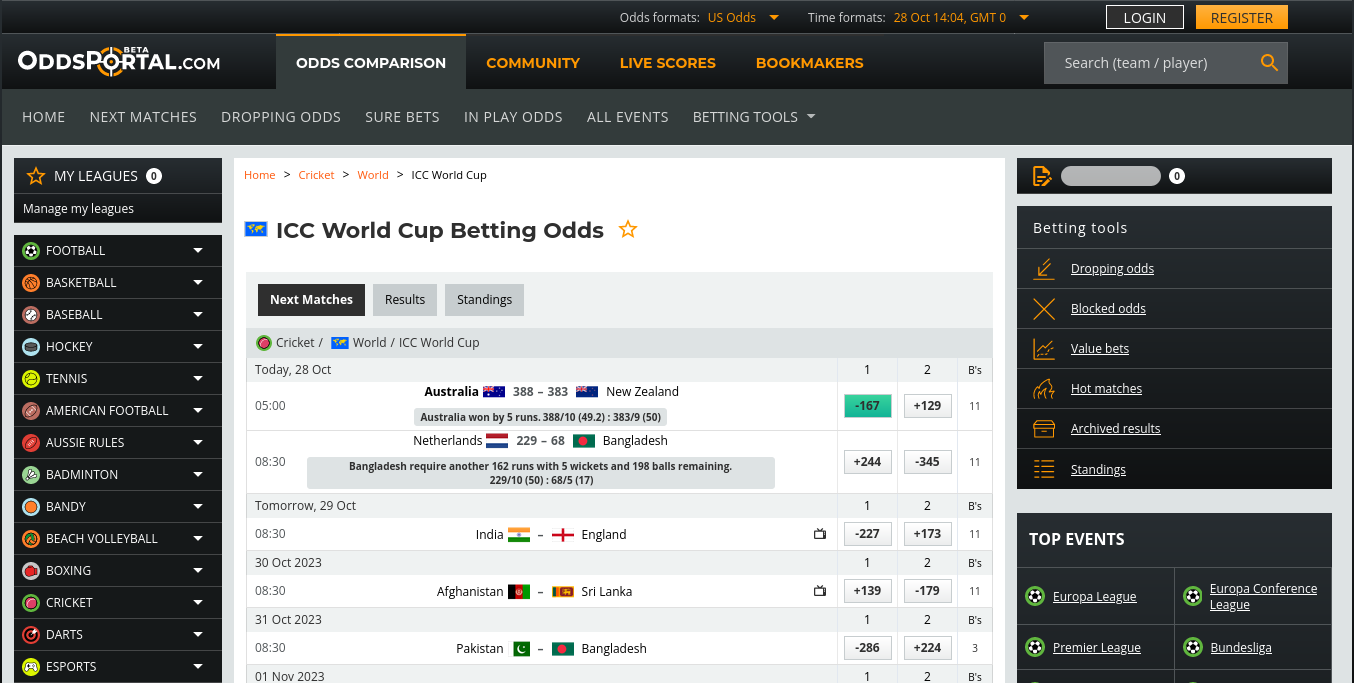
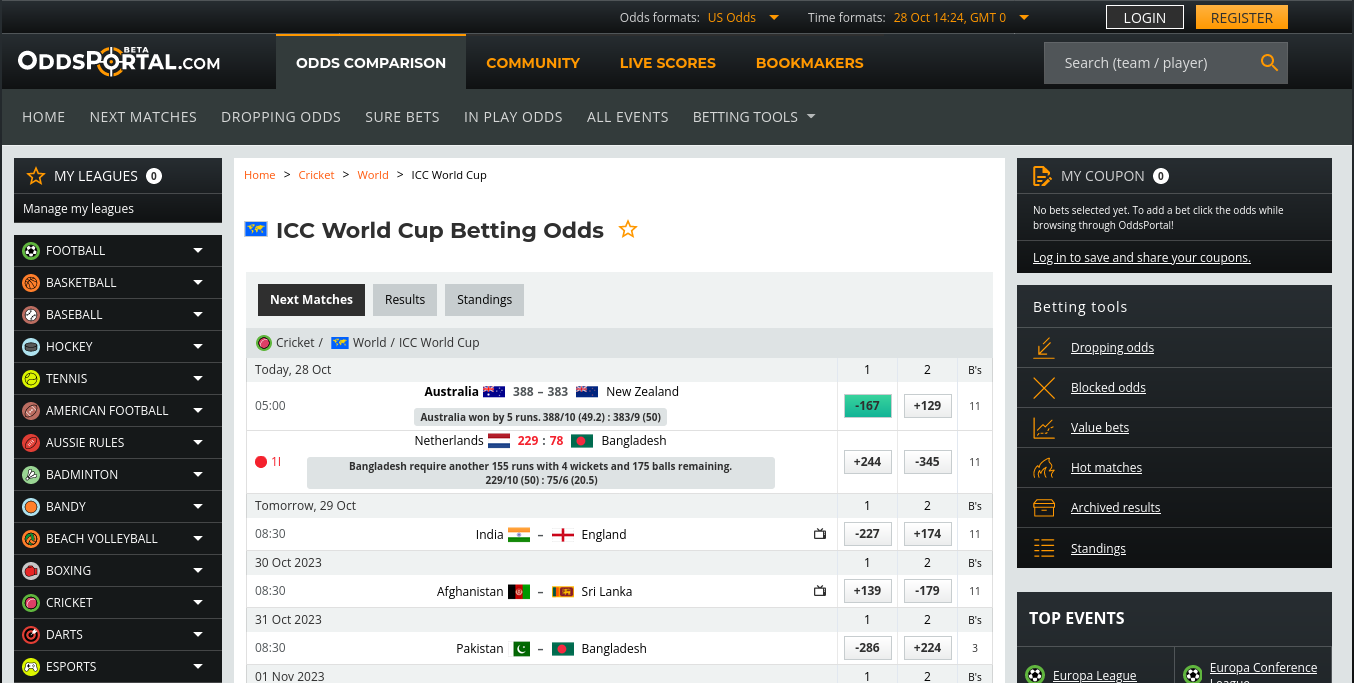
Update Data (Cron) Sat Oct 28 14:24:51 UTC 2023

diff --git a/src/nonview/data/TEAM1_ID_TO_TEAM2_ID_TO_ODDS_PAIR.js b/src/nonview/data/TEAM1_ID_TO_TEAM2_ID_TO_ODDS_PAIR.js
@@ -1,6 +1,6 @@
 // Auto Generated by UpdateTeam1IDToTeam2IDToOddsPair
 // https://www.oddsportal.com/cricket/world/icc-world-cup/
-// 2023-10-28 19:34:24 +0000
+// 2023-10-28 19:54:44 +0000
 
 import { TEAM } from "../core/Team.js";
 
@@ -12,7 +12,7 @@ export const TEAM1_ID_TO_TEAM2_ID_TO_ODDS_PAIR = {
     [TEAM.NLD.id]: [1.29, 3.44],
   },
   [TEAM.IND.id]: {
-    [TEAM.ENG.id]: [1.44, 2.73],
+    [TEAM.ENG.id]: [1.44, 2.74],
     [TEAM.LKA.id]: [1.19, 4.73],
   },
   [TEAM.LKA.id]: {
@@ -22,6 +22,6 @@ export const TEAM1_ID_TO_TEAM2_ID_TO_ODDS_PAIR = {
     [TEAM.BGD.id]: [1.35, 3.24],
   },
   [TEAM.ZAF.id]: {
-    [TEAM.NZL.id]: [1.68, 2.19],
+    [TEAM.NZL.id]: [1.71, 2.14],
   },
 };

diff --git a/src/nonview/constants/VERSION.js b/src/nonview/constants/VERSION.js
@@ -1,4 +1,4 @@
 // Auto-generated by javascript_version.py
-export const VERSION_UT = 1698501872;
+export const VERSION_UT = 1698503091;
 export const VERSION_DATETIME = new Date(VERSION_UT * 1_000);
 export const LAST_COMMIT_MESSAGE = "Updated 📊Data";

diff --git a/src/nonview/data/ODI_ID_TO_WINNER.js b/src/nonview/data/ODI_ID_TO_WINNER.js
@@ -1,6 +1,6 @@
 // Auto Generated by UpdateODIIDToWinner
 // https://www.cricbuzz.com/cricket-series/6732/icc-cricket-world-cup-2023/matches
-// 2023-10-28 19:34:02 +0000
+// 2023-10-28 19:54:27 +0000
 
 import { TEAM } from "../core/Team.js";
 

diff --git a/src/nonview/data/POINTS_TABLE.js b/src/nonview/data/POINTS_TABLE.js
@@ -1,6 +1,6 @@
 // Auto Generated by UpdatePointsTable
 // https://www.cricketworldcup.com/standings
-// 2023-10-28 19:34:14 +0000
+// 2023-10-28 19:54:36 +0000
 
 import { TEAM } from "../core/Team.js";
 
